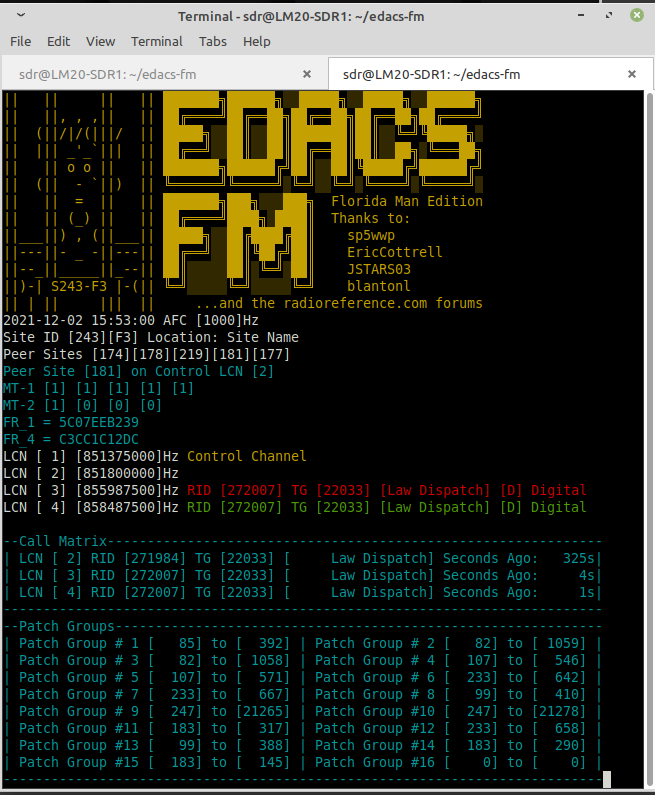
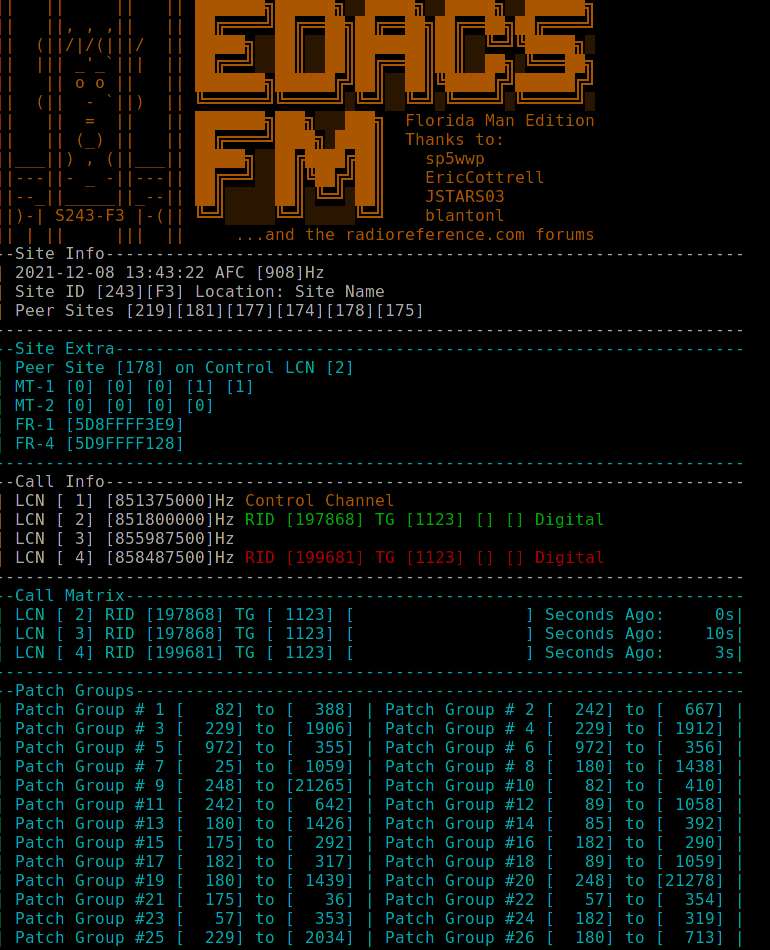
change up terminal printw layout
change up terminal printw layout with fences to be easier on the eye

diff --git a/edacs-fm.c b/edacs-fm.c
@@ -1092,6 +1092,10 @@ int main(int argc, char ** argv) {
         }
         //0x3 is Digital group voice call, 0x2 Group Data Channel, 0x1 TDMA call, 0xE Standard/Networked Analog, 0xF Standard/Networked Digital
         if ( (x_choice == 1 && mt1 >= 0x1 && mt1 <= 0x3) || (x_choice == 2 && (command == 0xEE || command == 0xEF)) ){ //LCN CALLS
+        //using mt1 values 0x2 and 0x1 produce lots of hits on higher LCN channels, not sure if this is a logical data call, or bogus.
+        //bad decoding also results in printing tons of bogus LCN channels, not sure if a fix can be made for this aside from BCH
+        //most all bad decodes occur from GR sadly, really need to retool that or scrap it 
+        //if ( (x_choice == 1 && mt1 == 0x3) || (x_choice == 2 && (command == 0xEE || command == 0xEF)) ){ //LCN CALLS
 			
 		  //only increment LCN channel list on 0x3 for testing, revert later when 0x2 and 0x1 are figured out properly
           if ((x_choice == 1 && lcn > lcn_tally && mt1 == 0x3) || (lcn > lcn_tally && x_choice == 2)) {
@@ -1204,24 +1208,12 @@ int main(int argc, char ** argv) {
         printw("%s \n", FM_banner[i]);
       }
       attroff(COLOR_PAIR(1));
-      printw("%s %s AFC [%d]Hz\n", getDate(), getTime(), AFC);
-      printw("Site ID [%3lld][%2llX] Location: %s\n", site_id, site_id, location_name);
-      if (x_choice == 2 && debug > 0) { //changing to debug since its not really usable as fast as it goes
-		attron(COLOR_PAIR(4));  
-        printw("Status Bits = ", status);
-        for (unsigned short int i = 0; i < 4; i++) {
-          signed short int buffer = (status >> 3 - i) & 0x1;
-          printw("[%1d] ", buffer);
-        }
-        printw("\n");
-        //printw("SR_0 = %16llX \n", sr_0); //leaving here in case I need to do some more debugging
-        //printw("SR_1 = %16llX \n", sr_1);
-        //printw("FR_1 = %10llX \n", fr_1);
-        //printw("FR_4 = %10llX \n", fr_4);
-        attroff(COLOR_PAIR(4));
-      }
+      printw("--Site Info----------------------------------------------------------------\n"); //making a fence 
+      printw("| %s %s AFC [%d]Hz\n", getDate(), getTime(), AFC);
+      printw("| Site ID [%3lld][%2llX] Location: %s\n", site_id, site_id, location_name);
+      
       if (x_choice == 1) {
-        printw("Peer Sites ");
+        printw("| Peer Sites ");
         for (short int i = 0; i < 12; i++) {
           if (peer_list[i] > 0) {
             printw("[%lld]", peer_list[i]);
@@ -1229,20 +1221,35 @@ int main(int argc, char ** argv) {
         }
         printw("\n");
       }
+      printw("---------------------------------------------------------------------------\n"); //making a fence 
       if (x_choice == 1 && debug > 0) {
 		attron(COLOR_PAIR(4));
-        printw("Peer Site [%lld] on Control LCN [%lld]\n", peer, peer_lcn);
+		printw("--Site Extra---------------------------------------------------------------\n"); //making a fence 
+        printw("| Peer Site [%lld] on Control LCN [%lld]\n", peer, peer_lcn);
+        attroff(COLOR_PAIR(4));
+      }
+      
+      
+      if (x_choice == 2 && debug > 0) { //changing to debug since its not really usable as fast as it goes
+		attron(COLOR_PAIR(4));  
+		printw("--Site Extra---------------------------------------------------------------\n"); //making a fence
+        printw("| Status Bits = ", status);
+        for (unsigned short int i = 0; i < 4; i++) {
+          signed short int buffer = (status >> 3 - i) & 0x1;
+          printw("[%1d] ", buffer);
+        }
+        printw("\n");
         attroff(COLOR_PAIR(4));
       }
       if (x_choice == 1 && debug > 0) { //changing to debug since its not really usable as fast as it goes
 		attron(COLOR_PAIR(4));  
-        printw("MT-1 ");
+        printw("| MT-1 ");
         for (unsigned short int i = 0; i < 5; i++) {
           signed short int buffer = (mt1 >> 4 - i) & 0x1;
           printw("[%1d] ", buffer);
         }
         printw("\n");
-        printw("MT-2 ");
+        printw("| MT-2 ");
         for (unsigned short int i = 0; i < 4; i++) {
           signed short int buffer = (mt2 >> 3 - i) & 0x1;
           printw("[%1d] ", buffer);
@@ -1253,12 +1260,14 @@ int main(int argc, char ** argv) {
       
       if (debug > 0) {
 		attron(COLOR_PAIR(4));
-		printw("FR_1 = %10llX \n", fr_1);
-        printw("FR_4 = %10llX \n", fr_4);
+		printw("| FR-1 [%10llX] \n", fr_1);
+        printw("| FR-4 [%10llX] \n", fr_4);
+        printw("---------------------------------------------------------------------------\n"); //making a fence 
         attroff(COLOR_PAIR(4));
-	  }  
+	  }
+	  printw("--Call Info----------------------------------------------------------------\n"); //making a fence  
       for (short int i = 0; i < lcn_tally; i++) {
-        printw("LCN [%2d] ", lcn_tally - (lcn_tally - 1) + i);
+        printw("| LCN [%2d] ", lcn_tally - (lcn_tally - 1) + i);
         printw("[%lld]Hz ", LCN_list[i]);
         if (CC_LCN == (i + 1)) {
           attron(COLOR_PAIR(1));
@@ -1315,6 +1324,7 @@ int main(int argc, char ** argv) {
             printw("Digital");
           }
           attroff(COLOR_PAIR(2));
+         
         }
         //leaving this here for reference, its used in the AFS bits printw instead of needlessly expanding the array to cram it in
         //agency =  ((call_matrix[i+1][1] & a_mask) >> (11 - a_len)); 
@@ -1322,7 +1332,8 @@ int main(int argc, char ** argv) {
         //subfleet =  (call_matrix[i+1][1] & s_mask);
         printw("\n");
       }
-      printw("\n"); //nice line break between makes it easier on the eyes
+      //printw("\n"); //nice line break between makes it easier on the eyes
+      printw("---------------------------------------------------------------------------\n"); //making a fence
       if (x_choice == 1 && debug > 0) { //Print Call_Matrix "History" for EA
 		attron(COLOR_PAIR(4));
 		printw("--Call Matrix--------------------------------------------------------------\n"); //making a fence  
